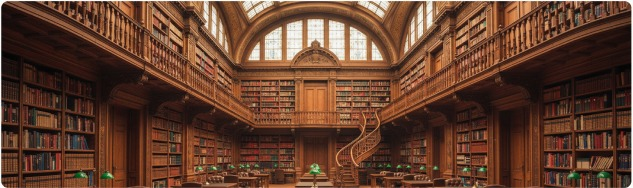
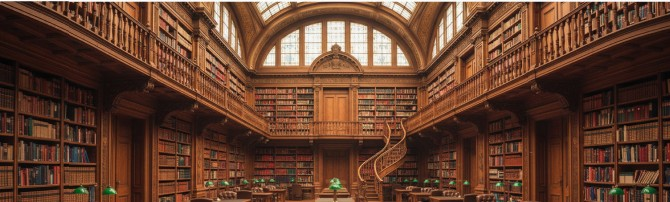
fix footer margin

diff --git a/css/style.css b/css/style.css
@@ -199,24 +199,26 @@ a {
    ========================================================= */
 
 .main-content {
-
     width: 100%;
-
-    min-height: var(--main-min-height);
-
 }
-
 
 .content-inner {
-
     width: var(--content-width);
-
     margin: 0 auto;
-
     padding-top: 98px;
-
+    padding-bottom: 96px;
 }
 
+@media (max-width: 640px) {
+
+    .content-inner {
+        width: calc(100% - 32px);
+
+        padding-top: 40px;
+        padding-bottom: 96px;
+    }
+
+}
 
 /* ---------------------------------------------------------
    Back Link
